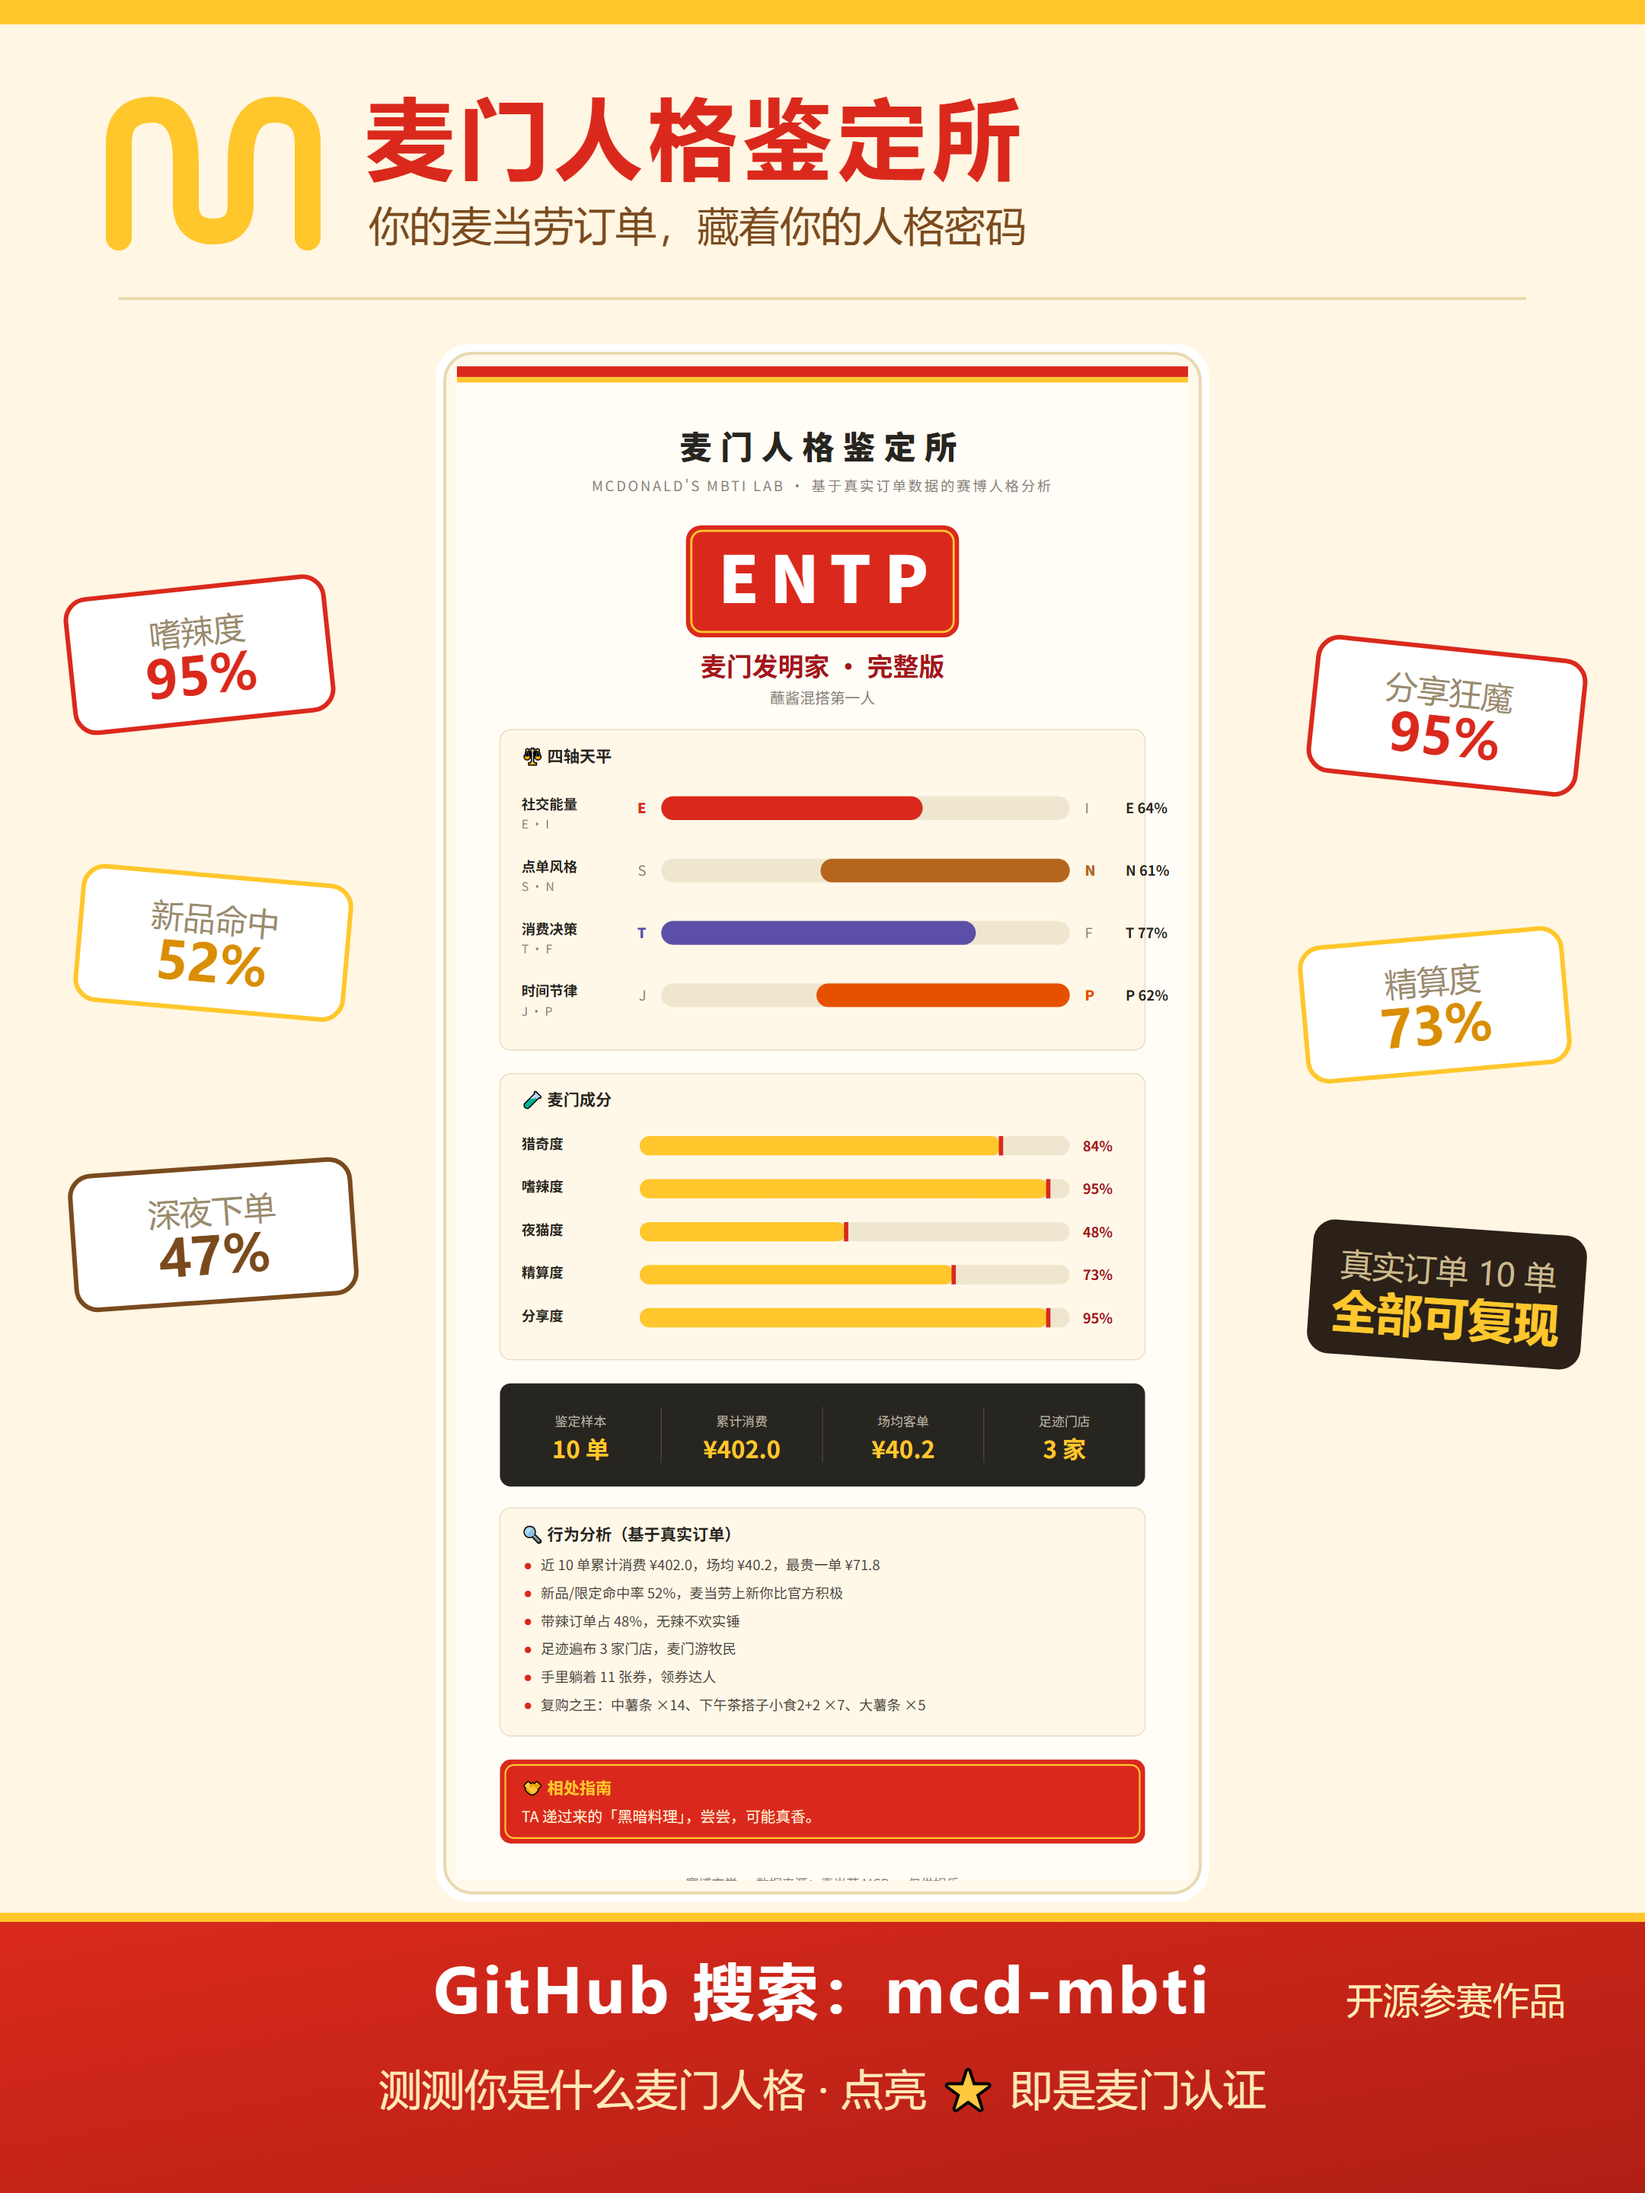
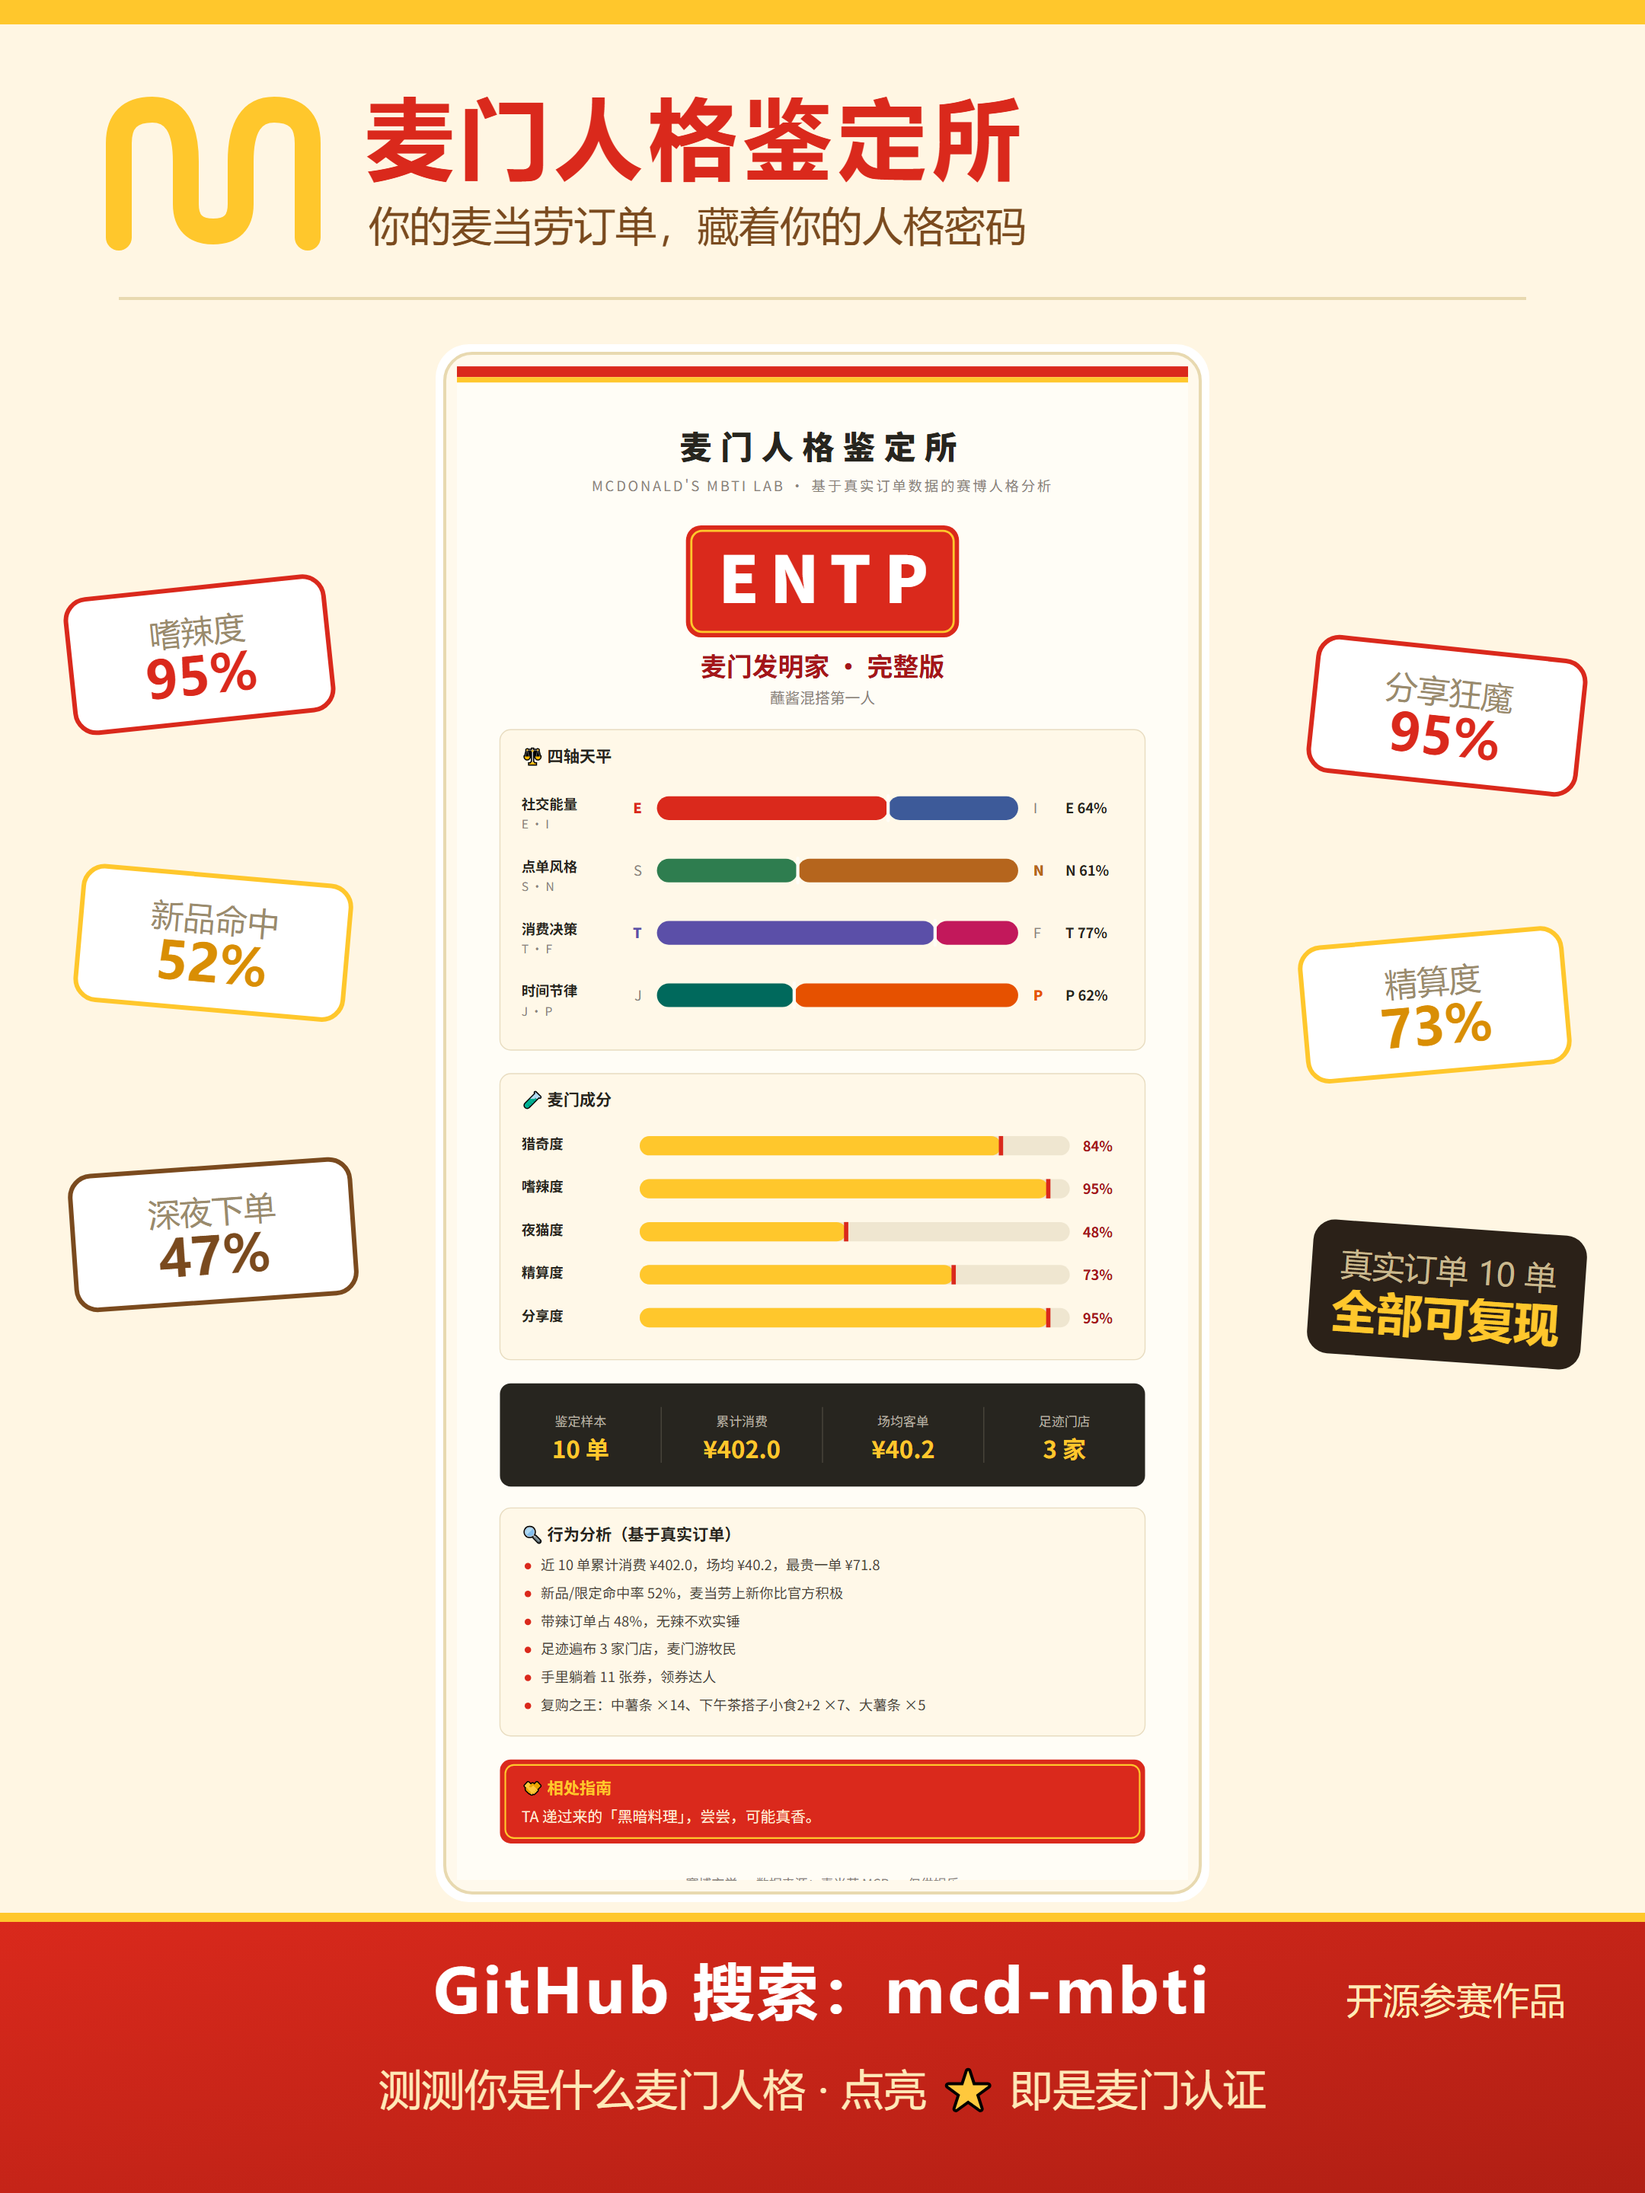
fix: 四轴改双色对峙条并修复百分比标签溢出背景框

diff --git a/scripts/render_card.py b/scripts/render_card.py
@@ -112,21 +112,19 @@ def build_svg(persona: dict, width: int = 680) -> str:
         # 轴标签
         parts.append(_t(60, ay + 16, 13, INK, label, "start", "700"))
         parts.append(_t(60, ay + 34, 11, GREY, f"{left_letter} · {right_letter}", "start"))
-        # 天平条
-        bar_x, bar_w = 190, 380
-        parts.append(f'<rect x="{bar_x}" y="{ay + 4}" width="{bar_w}" height="22" rx="11" fill="#EFE6D0"/>')
-        dom_ratio = left_ratio if dominant == left_letter else right_ratio
-        fill_w = max(11, bar_w * dom_ratio)
-        dom_color = color_a if dominant == left_letter else color_b
-        # 天平式填充：dominant 在哪一侧，就从那一侧向内填充，保证视觉与字母极性一致
-        fill_x = bar_x if dominant == left_letter else bar_x + bar_w - fill_w
-        parts.append(f'<rect x="{fill_x}" y="{ay + 4}" width="{fill_w}" height="22" rx="11" fill="{dom_color}"/>')
+        # 天平条：左右两段双色对峙，条恒定填满，分界点即两极占比
+        bar_x, bar_w = 186, 336
+        left_w = max(11, bar_w * left_ratio)
+        parts.append(f'<rect x="{bar_x}" y="{ay + 4}" width="{left_w}" height="22" rx="11" fill="{color_a}"/>')
+        parts.append(f'<rect x="{bar_x + left_w}" y="{ay + 4}" width="{bar_w - left_w}" height="22" rx="11" fill="{color_b}"/>')
+        # 中缝分界线
+        parts.append(f'<rect x="{bar_x + left_w - 1.5}" y="{ay + 2}" width="3" height="26" rx="1.5" fill="#FFFDF6"/>')
         # 字母标注
         la_color = color_a if left_letter == dominant else GREY
         rb_color = color_b if right_letter == dominant else GREY
         parts.append(_t(bar_x - 14, ay + 20, 13, la_color, left_letter, "end", "800" if left_letter == dominant else "400"))
         parts.append(_t(bar_x + bar_w + 14, ay + 20, 13, rb_color, right_letter, "start", "800" if right_letter == dominant else "400"))
-        parts.append(_t(bar_x + bar_w + 52, ay + 20, 13, INK, f"{dominant} {int(round(dom_ratio * 100))}%", "start", "700"))
+        parts.append(_t(bar_x + bar_w + 44, ay + 20, 13, INK, f"{dominant} {int(round(max(left_ratio, right_ratio) * 100))}%", "start", "700"))
         ay += 58
 
     y += axis_block_h + 22
